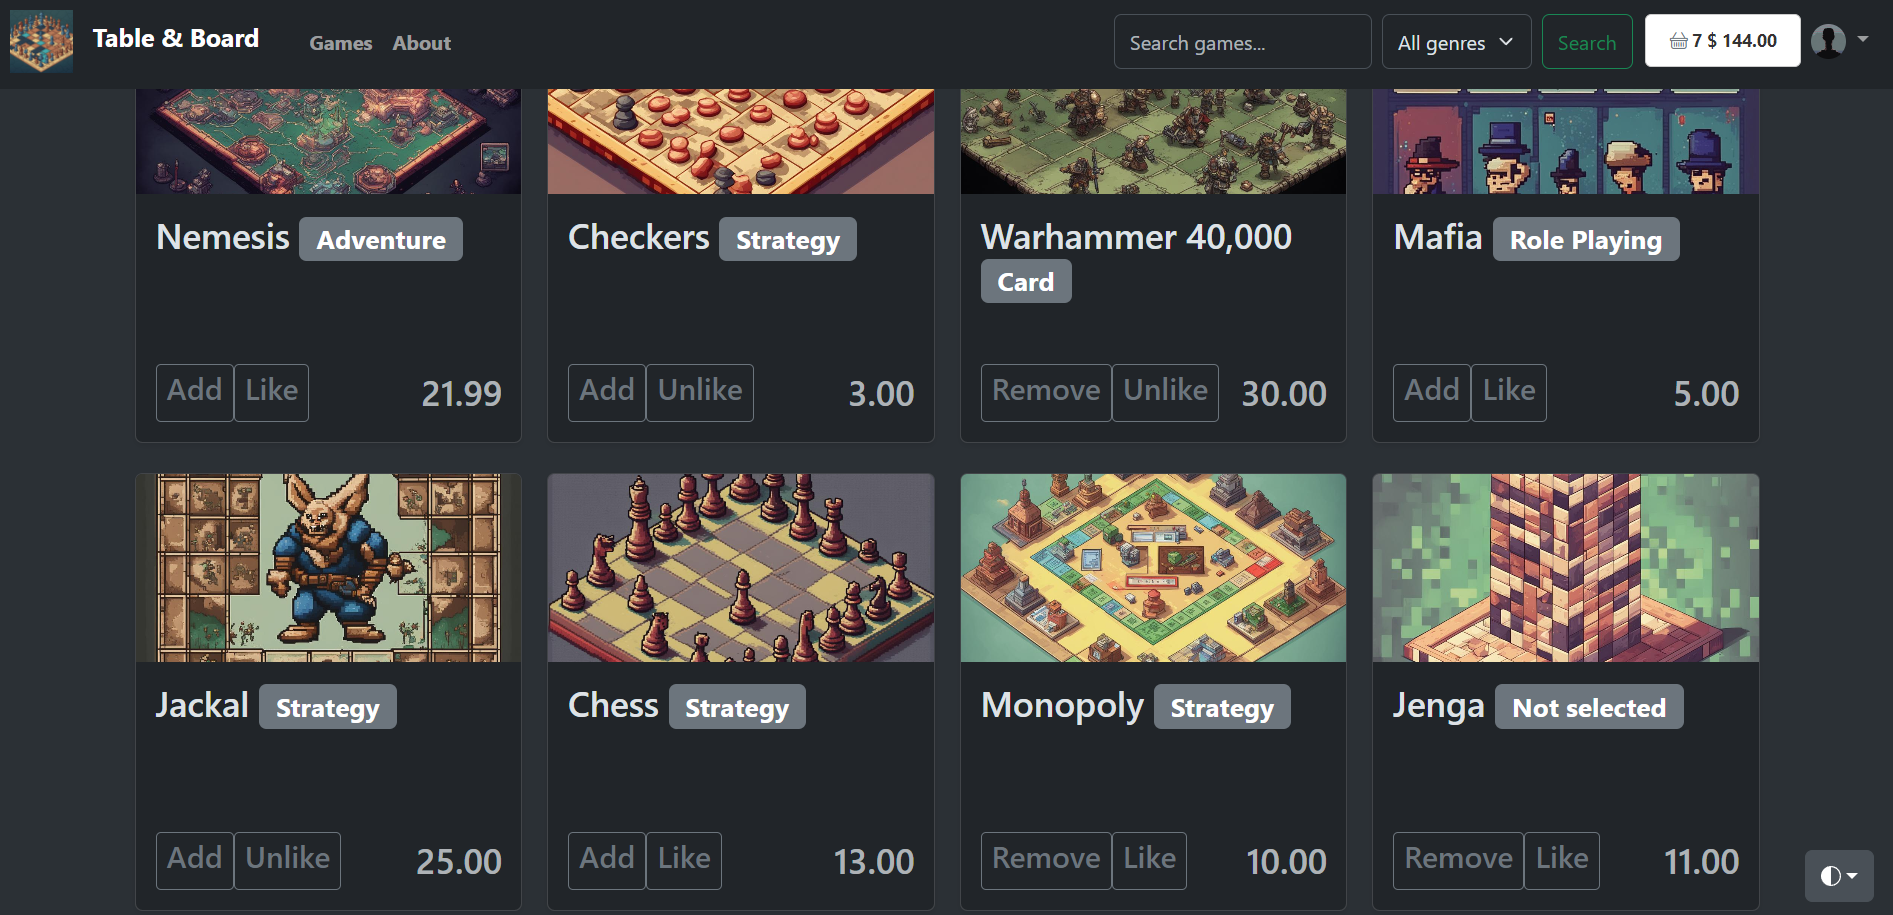
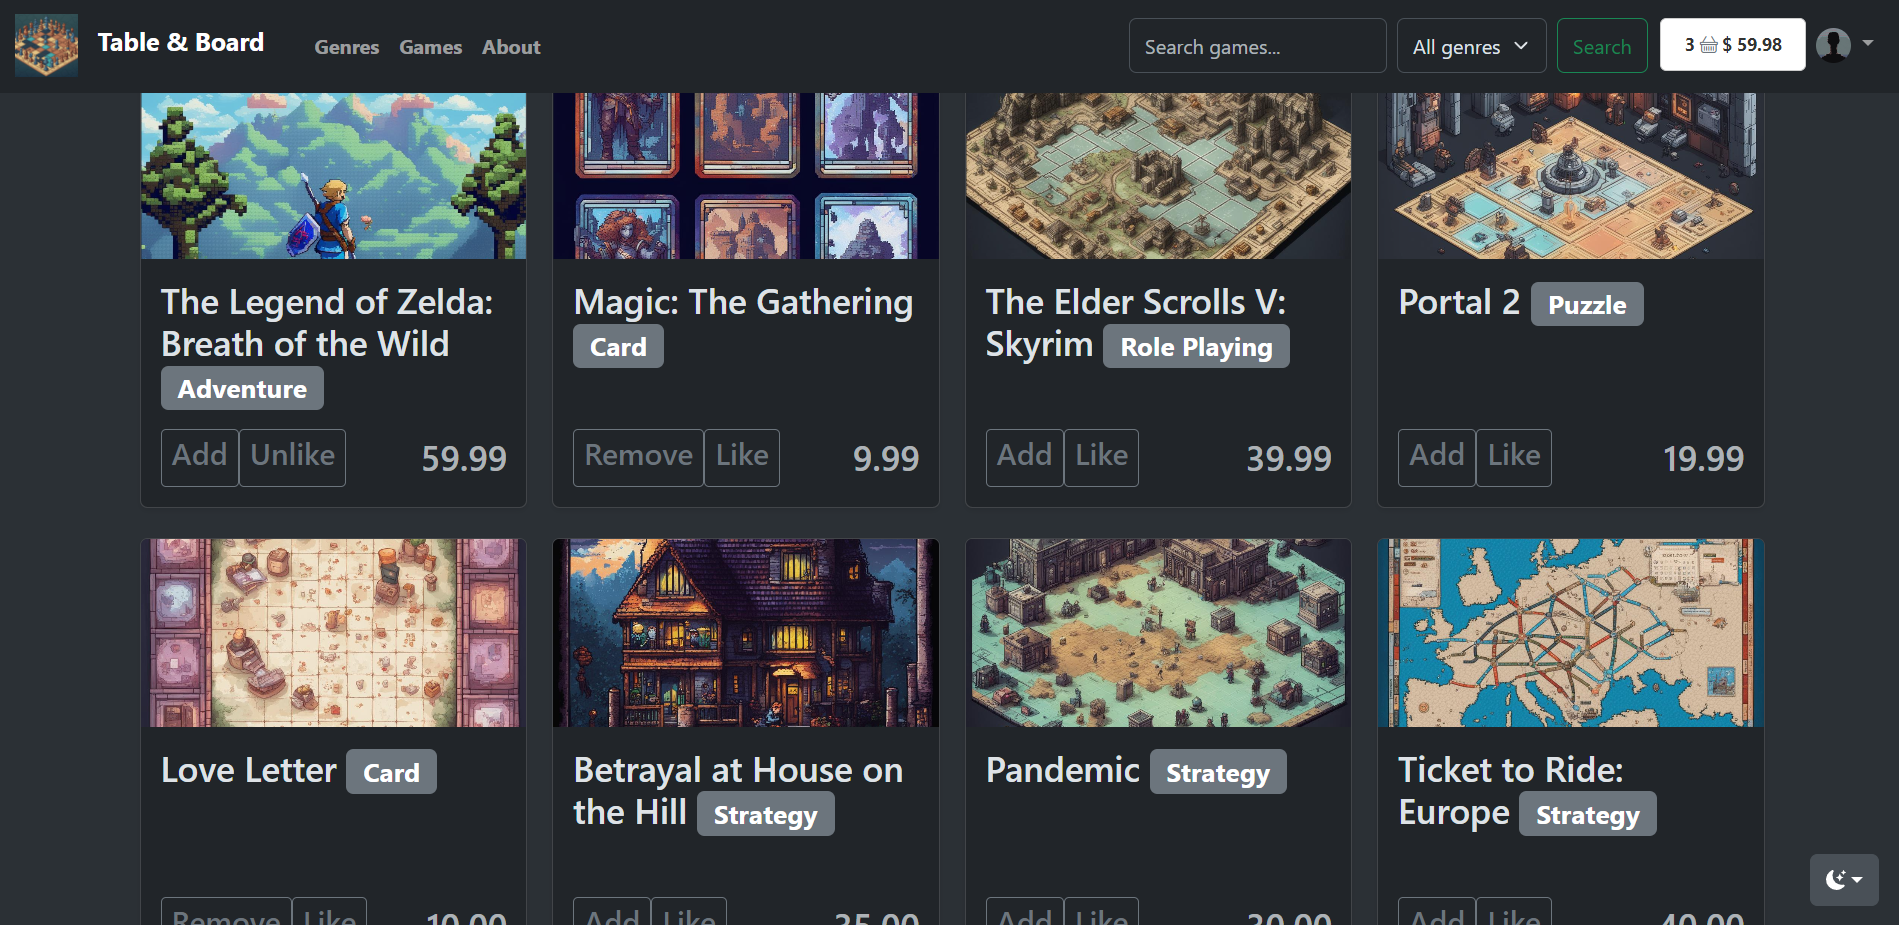
added demo home page

diff --git a/store/templates/store/home.html b/store/templates/store/home.html
@@ -1,0 +1,75 @@
+{% extends 'store/base.html' %}
+{% load static %}
+
+{% block content %}
+<div class="banner">
+    <div class="container">
+        <h1>Welcome to our Tabletop Game Store</h1>
+        <p>Discover exciting and engaging tabletop games for all ages and skill levels.</p>
+    </div>
+</div>
+
+<div class="container">
+    <div class="row">
+        <div id="carouselGenres" class="carousel slide" data-bs-ride="carousel">
+            <div class="carousel-inner">
+                {% for genre in genres %}
+                <div class="carousel-item{% if forloop.first %} active{% endif %}">
+                    <div class="row">
+                        <div class="col-md-6">
+                            <a href="{% url 'store:genre' genre.slug %}">
+                                <img src="{{ genre.preview.url }}" alt="{{ genre.name }}"
+                                     class="d-block w-100 carousel-image">
+                            </a>
+                        </div>
+                        <div class="col-md-6 carousel-description">
+                            <h2>{{ genre.name }}</h2>
+                            <h3>{{ genre.description }}</h3>
+                        </div>
+                    </div>
+                </div>
+                {% endfor %}
+            </div>
+            <button type="button" data-bs-target="#carouselGenres" data-bs-slide="prev" class="carousel-control-prev">
+                <span class="carousel-control-prev-icon" aria-hidden="true"></span>
+                <span class="visually-hidden">Previous</span>
+            </button>
+            <button type="button" data-bs-target="#carouselGenres" data-bs-slide="next" class="carousel-control-next">
+                <span class="carousel-control-next-icon" aria-hidden="true"></span>
+                <span class="visually-hidden">Next</span>
+            </button>
+        </div>
+    </div>
+</div>
+
+<div class="container">
+    {% for game in featured_games %}
+    <div class="container">
+        <a href="{% url 'store:game' game.id %}">
+            <img src="{{ game.preview.url }}" alt="{{ game.title }}" class="card-img-top game-card-img">
+        </a>
+        <a href="{% url 'store:game' game.id %}">
+            <h3 class="card-title">
+                {{ game.title }}
+            </h3>
+        </a>
+        <h3>
+            {% with first_genre=game.genre.all|first %}
+            <span class="badge bg-secondary">{{ first_genre }}</span>
+            {% endwith %}
+            <span class="text-muted">
+                        {{ game.price }}
+        </span>
+        </h3>
+
+        <p class="card-text">{{ game.description }}</p>
+    </div>
+</div>
+{% endfor %}
+<style>
+    .carousel-control-prev,
+    .carousel-control-next {
+        opacity: 1;
+    }
+</style>
+{% endblock %}

diff --git a/store/templates/store/base.html b/store/templates/store/base.html
@@ -29,10 +29,10 @@
 
 <header class="navbar navbar-expand-md navbar-dark fixed-top bg-dark">
     <div class="container-fluid">
-        <a class="navbar-brand" style="display: flex" href="{% url 'store:list' %}">
+        <a class="navbar-brand" style="display: flex" href="{% url 'store:home' %}">
             <img src="{% static 'default/bg_logo.png' %}" alt="Logo" width="50" height="50">
         </a>
-        <a class="navbar-brand" style="display: flex" href="{% url 'store:list' %}">
+        <a class="navbar-brand" style="display: flex" href="{% url 'store:home' %}">
             <h1 class="navbar-brand"><strong>Table & Board</strong></h1>
         </a>
         <ul class="navbar-nav">
@@ -88,7 +88,7 @@
                             <li><a class="dropdown-item" href="{% url 'users:profile' %}">My Account</a></li>
                             <li><a class="dropdown-item" href="{% url 'store:wishlist'%}">
                                 My wishlist
-        (<span class="wishlist-items">{{ request.wishlist_count }}</span>)
+                                (<span class="wishlist-items">{{ request.wishlist_count }}</span>)
                             </a></li>
                             <li>
                                 <hr class="dropdown-divider">

diff --git a/static/css/custom.css b/static/css/custom.css
@@ -133,6 +133,27 @@ body {
     bottom: 15px;
 }
 
+.carousel-control-prev,
+.carousel-control-next {
+    opacity: 1;
+}
+
+.carousel-control-prev:hover,
+.carousel-control-next:hover {
+    opacity: 0.7;
+}
+
+.carousel-control-prev,
+.carousel-control-next {
+    background-color: rgba(0, 0, 0, 0.5);
+      position: absolute;
+      top: 50%;
+      transform: translateY(-50%);
+      width: 50px;
+      height: 50px;
+      border-radius: 50%;
+}
+
 .banner {
   padding: 50px 0;
   position: relative;

diff --git a/store/templates/store/cart_sum.html b/store/templates/store/cart_sum.html
@@ -1,7 +1,7 @@
 <div class="cart-summary">
     <a href="{% url 'store:cart'%}" class="btn btn-sm btn-outline">
-        <i class="bi-basket text-gray"></i>
         <span class="cart-items">{{ request.cart_count }}</span>
+        <i class="bi-basket text-gray"></i>
         <span>$</span>
         <span class="cart-price">{{ request.cart_price }} </span>
     </a>

diff --git a/store/migrations/0001_initial.py b/store/migrations/0001_initial.py
@@ -1,0 +1,76 @@
+# Generated by Django 5.0.1 on 2024-03-16 08:42
+
+import django.db.models.deletion
+from django.conf import settings
+from django.db import migrations, models
+
+
+class Migration(migrations.Migration):
+
+    initial = True
+
+    dependencies = [
+        migrations.swappable_dependency(settings.AUTH_USER_MODEL),
+    ]
+
+    operations = [
+        migrations.CreateModel(
+            name='Game',
+            fields=[
+                ('id', models.BigAutoField(auto_created=True, primary_key=True, serialize=False, verbose_name='ID')),
+                ('title', models.CharField(max_length=200)),
+                ('description', models.TextField(blank=True, null=True)),
+                ('preview', models.ImageField(upload_to='games/')),
+                ('price', models.DecimalField(decimal_places=2, max_digits=10)),
+                ('publisher', models.CharField(blank=True, max_length=100, null=True)),
+                ('age_rating', models.CharField(blank=True, max_length=5, null=True)),
+            ],
+        ),
+        migrations.CreateModel(
+            name='Genre',
+            fields=[
+                ('id', models.BigAutoField(auto_created=True, primary_key=True, serialize=False, verbose_name='ID')),
+                ('preview', models.ImageField(upload_to='genres/')),
+                ('name', models.CharField(max_length=100)),
+                ('description', models.TextField(blank=True, null=True)),
+                ('slug', models.SlugField(default='noslug', unique=True)),
+            ],
+        ),
+        migrations.CreateModel(
+            name='Cart',
+            fields=[
+                ('id', models.BigAutoField(auto_created=True, primary_key=True, serialize=False, verbose_name='ID')),
+                ('is_active', models.BooleanField(default=True)),
+                ('user', models.ForeignKey(on_delete=django.db.models.deletion.CASCADE, to=settings.AUTH_USER_MODEL)),
+            ],
+        ),
+        migrations.CreateModel(
+            name='CartItem',
+            fields=[
+                ('id', models.BigAutoField(auto_created=True, primary_key=True, serialize=False, verbose_name='ID')),
+                ('cart', models.ForeignKey(on_delete=django.db.models.deletion.CASCADE, to='store.cart')),
+                ('game', models.ForeignKey(on_delete=django.db.models.deletion.CASCADE, to='store.game')),
+            ],
+        ),
+        migrations.AddField(
+            model_name='game',
+            name='genre',
+            field=models.ManyToManyField(to='store.genre'),
+        ),
+        migrations.CreateModel(
+            name='Wishlist',
+            fields=[
+                ('id', models.BigAutoField(auto_created=True, primary_key=True, serialize=False, verbose_name='ID')),
+                ('is_active', models.BooleanField(default=True)),
+                ('user', models.ForeignKey(on_delete=django.db.models.deletion.CASCADE, to=settings.AUTH_USER_MODEL)),
+            ],
+        ),
+        migrations.CreateModel(
+            name='WishlistItem',
+            fields=[
+                ('id', models.BigAutoField(auto_created=True, primary_key=True, serialize=False, verbose_name='ID')),
+                ('game', models.ForeignKey(on_delete=django.db.models.deletion.CASCADE, to='store.game')),
+                ('wishlist', models.ForeignKey(on_delete=django.db.models.deletion.CASCADE, to='store.wishlist')),
+            ],
+        ),
+    ]

diff --git a/store/urls.py b/store/urls.py
@@ -2,12 +2,13 @@ from django.urls import path
 
 from store.apps import StoreConfig
 from store.views import game_list, view_game, about, manage_cart, cart_list, \
-    wishlist_list, manage_wishlist, genre_list, view_genre
+    wishlist_list, manage_wishlist, genre_list, view_genre, home
 
 app_name = StoreConfig.name
 
 urlpatterns = [
-    path("", game_list, name="list"),
+    path("", home, name="home"),
+    path("games/", game_list, name="list"),
     path("genres/", genre_list, name="genres"),
     path("<int:pk>/", view_game, name="game"),
     path("genres/<slug:slug>/", view_genre, name="genre"),

diff --git a/store/views.py b/store/views.py
@@ -20,6 +20,16 @@ def get_game_list_data(request):
     return cart_game_ids, wishlist_game_ids
 
 
+def home(request):
+    genres = Genre.objects.all()
+    featured_games = Game.objects.all()[:5]
+    context = {
+        'genres': genres,
+        'featured_games': featured_games,
+    }
+    return render(request, 'store/home.html', context)
+
+
 @login_required
 def game_list(request):
     query = request.GET.get('q')

diff --git a/README.md b/README.md
@@ -1,6 +1,6 @@
-# Table & Board Game Store
+# Table & Board
 
-Table & Board Game Store is an online store for board games and tabletop games. Users can browse games, add them to their cart or wishlist, and manage their carts and wishlists.
+Table & Board is an online store for board games and tabletop games. Users can browse games, add them to their cart or wishlist, and manage their carts and wishlists.
 
 ![img.png](static/default/interface.png)
 
